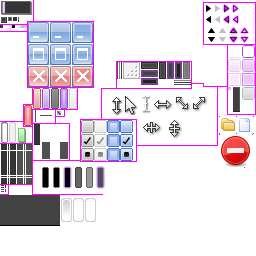
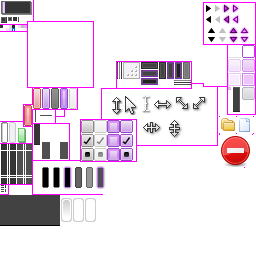
additions to the second skin, and deadlock checking stuff

diff --git a/util/analyse_mutex_log.cpp b/util/analyse_mutex_log.cpp
@@ -1,0 +1,150 @@
+#include <stdio.h>
+#include <string.h>
+#include <stdint.h>
+#include <stdlib.h>
+
+struct Line {
+	char thread[21];
+	char mutex[21];
+	int op;
+};
+
+struct Mutex {
+	char n[21];
+	uint8_t connections[1024 / 8];
+};
+
+struct Thread {
+	char n[21];
+};
+
+Line lines[1048576];
+size_t lineCount;
+
+Mutex mutexes[1024];
+size_t mutexCount;
+
+Thread threads[1024];
+size_t threadCount;
+
+int main(int argc, char **argv) {
+	FILE *log = fopen("out.txt", "rb");
+	fseek(log, 0, SEEK_END);
+	size_t fileSize = ftell(log);
+	fseek(log, 0, SEEK_SET);
+	char *buffer = (char *) malloc(fileSize);
+	char *end = buffer + fileSize;
+	fread(buffer, 1, fileSize, log);
+
+	while (*buffer) {
+		char *start = buffer;
+
+		while (*buffer != '\n' && buffer < end) {
+			buffer++;
+		}
+
+		*buffer = 0;
+		buffer += 2;
+
+		if (*start == '0') {
+			memcpy(lines[lineCount].thread, start, 21);
+			memcpy(lines[lineCount].mutex, start + 22, 21);
+			lines[lineCount].op = start[44] - '0';
+			lineCount++;
+		}
+	}
+
+	// printf("found %d mutex operations\n", (int) lineCount);
+
+	for (uintptr_t i = 0; i < lineCount; i++) {
+		bool repeat = false;
+
+		for (uintptr_t j = 0; j < mutexCount; j++) {
+			if (0 == memcmp(lines[i].mutex, mutexes[j].n, 21)) {
+				repeat = true;
+				break;
+			}
+		}
+
+		if (!repeat) {
+			memcpy(mutexes[mutexCount].n, lines[i].mutex, 21);
+			mutexCount++;
+		}
+	}
+
+	// printf("found %d mutexes\n", (int) mutexCount);
+
+	for (uintptr_t i = 0; i < lineCount; i++) {
+		bool repeat = false;
+
+		for (uintptr_t j = 0; j < threadCount; j++) {
+			if (0 == memcmp(lines[i].thread, threads[j].n, 21)) {
+				repeat = true;
+				break;
+			}
+		}
+
+		if (!repeat) {
+			memcpy(threads[threadCount].n, lines[i].thread, 21);
+			threadCount++;
+		}
+	}
+
+	// printf("found %d threads\n", (int) threadCount);
+
+	int maxX = 0;
+
+	for (uintptr_t i = 0; i < threadCount; i++) {
+		Thread thread = threads[i];
+		// printf("---thread %.*s\n", 21, thread.n);
+		int x = 0;
+
+		int stack[16];
+
+		for (uintptr_t j = 0; j < lineCount; j++) {
+			if (memcmp(lines[j].thread, thread.n, 21)) {
+				continue;
+			}
+
+#if 0
+			for (int i = 0; i <= x; i++) {
+				putchar(' ');
+			}
+#endif
+
+			if (lines[j].op) {
+				for (uintptr_t k = 0; k < mutexCount; k++) {
+					if (0 == memcmp(lines[j].mutex, mutexes[k].n, 21)) {
+						stack[x] = k;
+					}
+				}
+				
+				if (x) {
+					// printf("%d->%d\n", stack[x], stack[x-1]);
+					int id = stack[x - 1];
+					mutexes[stack[x]].connections[id / 8] |= 1 << (id & 7);
+				}
+
+				// putchar(' ');
+				// printf("acquire %.*s\n", 21, lines[j].mutex);
+				x++;
+				if (x > maxX) maxX = x;
+			} else {
+				x--;
+				// printf("release %.*s\n", 21, lines[j].mutex);
+			}
+		}
+	}
+
+	// printf("maxX = %d\n", maxX);
+
+	for (uintptr_t i = 0; i < mutexCount; i++) {
+		for (uintptr_t j = i + 1; j < mutexCount; j++) {
+			if (mutexes[i].connections[j % 8] & (1 << (j & 7))) {
+				if (mutexes[j].connections[i % 8] & (1 << (i & 7))) {
+					printf("deadlock on pair %.*s, %.*s\n", 21, mutexes[i].n, 21, mutexes[j].n);
+				}
+			}
+		}
+	}
+}

diff --git a/kernel/ahci.cpp b/kernel/ahci.cpp
@@ -272,6 +272,7 @@ struct AHCIController {
 	void RemoveBlockingPacket(struct IOPacket *packet);
 	bool Access(struct IOPacket *packet, uintptr_t drive, uint64_t offset, size_t count, int operation, uint8_t *buffer); // Returns true on success.
 	bool FinishOperation(AHCIOperation *operation);
+	void AcquireMutex();
 
 	bool present;
 	struct PCIDevice *pciDevice;
@@ -288,8 +289,19 @@ AHCIController ahci;
 
 #else
 
+void AHCIController::AcquireMutex() {
+	mutex.Acquire();
+
+	if (kernelVMM.lock.owner == GetCurrentThread()) {
+		// TODO I think this can happen?
+		// 	It seemed to appear in the analyse_mutex_log program as a potential problem.
+		// 	...but that could be buggy.
+		KernelPanic("Potential deadlock.\n");
+	}
+}
+
 bool AHCIController::FinishOperation(AHCIOperation *operation) {
-	ahci.mutex.Acquire();
+	AcquireMutex();
 
 	bool success = false;
 
@@ -342,7 +354,7 @@ bool AHCIController::FinishOperation(AHCIOperation *operation) {
 
 	operation->issued.timeout.Remove();
 
-	ahci.mutex.Release();
+	mutex.Release();
 
 	if (ioPacket) {
 		ioPacket->request->mutex.Acquire();
@@ -363,12 +375,12 @@ bool AHCIController::FinishOperation(AHCIOperation *operation) {
 	}
 
 	// Mark the command index as available.
-	ahci.mutex.Acquire();
+	AcquireMutex();
 	drive->commandsInUse &= ~(1 << commandIndex);
-	ahci.mutex.Release();
+	mutex.Release();
 
 	{
-		ahci.mutex.Acquire();
+		AcquireMutex();
 
 		// Unblock a packet.
 		drive->available.Return(1);
@@ -380,7 +392,7 @@ bool AHCIController::FinishOperation(AHCIOperation *operation) {
 			drive->blockedOperations.Remove(drive->blockedOperations.firstItem);
 		}
 
-		ahci.mutex.Release();
+		mutex.Release();
 
 		if (operation) {
 			operation->ioPacket->request->mutex.Acquire();
@@ -693,7 +705,7 @@ bool AHCIController::Access(IOPacket *ioPacket, uintptr_t _drive, uint64_t offse
 	if (ioPacket) {
 		ioPacket->driverState = IO_PACKET_DRIVER_BLOCKING;
 
-		mutex.Acquire();
+		AcquireMutex();
 
 		if (!drive->available.units) {
 			// Queue the operation to be performed when a command is freed up.
@@ -710,7 +722,7 @@ bool AHCIController::Access(IOPacket *ioPacket, uintptr_t _drive, uint64_t offse
 	} else {
 		while (true) {
 			drive->available.available.Wait(OS_WAIT_NO_TIMEOUT);
-			mutex.Acquire();
+			AcquireMutex();
 
 			if (drive->available.units) {
 				break;

diff --git a/api/gui.cpp b/api/gui.cpp
@@ -51,6 +51,8 @@ uint32_t TEXT_COLOR_TOOLBAR = 0xFFFFFF;
 uint32_t TEXTBOX_SELECTED_COLOR_1 = 0xFFC4D9F9;
 uint32_t TEXTBOX_SELECTED_COLOR_2 = 0xFFDDDDDD;
 
+uint32_t DISABLE_TEXT_SHADOWS = 1;
+
 // TODO Calculator textbox - selection extends out of top of textbox
 // TODO Minor menu[bar] border adjustments; menu icons.
 // TODO Keyboard controls.
@@ -920,13 +922,14 @@ static OSCallbackResponse ProcessControlMessage(OSObject _object, OSMessage *mes
 				if (!control->customTextRendering) {
 					OSRectangle textBounds = control->textBounds;
 
-					if (control->textShadow && (!control->disabled || control->noDisabledTextColorChange)) {
+					if (control->textShadow && !DISABLE_TEXT_SHADOWS && (!control->disabled || control->noDisabledTextColorChange)) {
 						OSRectangle bounds = textBounds;
 						bounds.top++; bounds.bottom++; 
 						// bounds.left++; bounds.right++;
 
 						OSDrawString(message->paint.surface, bounds, &control->text, control->textSize,
-								control->textAlign, textShadowColor, -1, control->textBold, message->paint.clip, control->textShadowBlur ? 3 : 0);
+								control->textAlign, textShadowColor, -1, control->textBold, message->paint.clip, 
+								control->textShadowBlur ? 3 : 0);
 					}
 
 					OSDrawString(message->paint.surface, textBounds, &control->text, control->textSize,
@@ -4413,7 +4416,7 @@ void OSInitialiseGUI() {
 	LIST_VIEW_BACKGROUND_COLOR = skin[4 * 3 + 25 * buffer.width];
 	
 	TEXT_COLOR_DEFAULT = skin[5 * 3 + 25 * buffer.width];
-	TEXT_COLOR_DISABLED = skin[6 * 3 + 25 * buffer.width];
+	// TEXT_COLOR_DISABLED = skin[6 * 3 + 25 * buffer.width];
 	TEXT_COLOR_DISABLED_SHADOW = skin[7 * 3 + 25 * buffer.width];
 	TEXT_COLOR_HEADING = skin[8 * 3 + 25 * buffer.width];
 	TEXT_COLOR_TITLEBAR = skin[0 * 3 + 28 * buffer.width];
@@ -4421,6 +4424,8 @@ void OSInitialiseGUI() {
 	
 	TEXTBOX_SELECTED_COLOR_1 = skin[2 * 3 + 28 * buffer.width];
 	TEXTBOX_SELECTED_COLOR_2 = skin[3 * 3 + 28 * buffer.width];
+
+	DISABLE_TEXT_SHADOWS = skin[4 * 3 + 28 * buffer.width];
 
 	OSFree(skin);
 	OSCloseHandle(buffer.handle);

diff --git a/util/build.cpp b/util/build.cpp
@@ -91,7 +91,8 @@ void Build(bool enableOptimisations) {
 void Run(int emulator, int drive, int memory, int cores, int log, bool gdb) {
 	switch (emulator) {
 		case EMULATOR_QEMU: {
-			sprintf(buffer, "qemu-system-x86_64 %s -m %d -s %s -smp cores=%d %s", 
+			// -serial file:out.txt
+			sprintf(buffer, "qemu-system-x86_64  %s -m %d -s %s -smp cores=%d %s", 
 					drive == DRIVE_ATA ? "-drive file=drive,format=raw,media=disk,index=0" : 
 						"-drive file=drive,if=none,id=mydisk,format=raw,media=disk,index=0 -device ich9-ahci,id=ahci -device ide-drive,drive=mydisk,bus=ahci.0",
 					memory, gdb ? "-S" : "", cores,

diff --git a/kernel/scheduler.cpp b/kernel/scheduler.cpp
@@ -1237,10 +1237,14 @@ void Mutex::Acquire() {
 
 	acquireAddress = (uintptr_t) __builtin_return_address(0);
 	AssertLocked();
+
+	// Print("%x:%x:1\n", owner, this);
 }
 
 void Mutex::Release() {
 	if (scheduler.panic) return;
+
+	// Print("%x:%x:0\n", owner, this);
 
 	AssertLocked();
 
